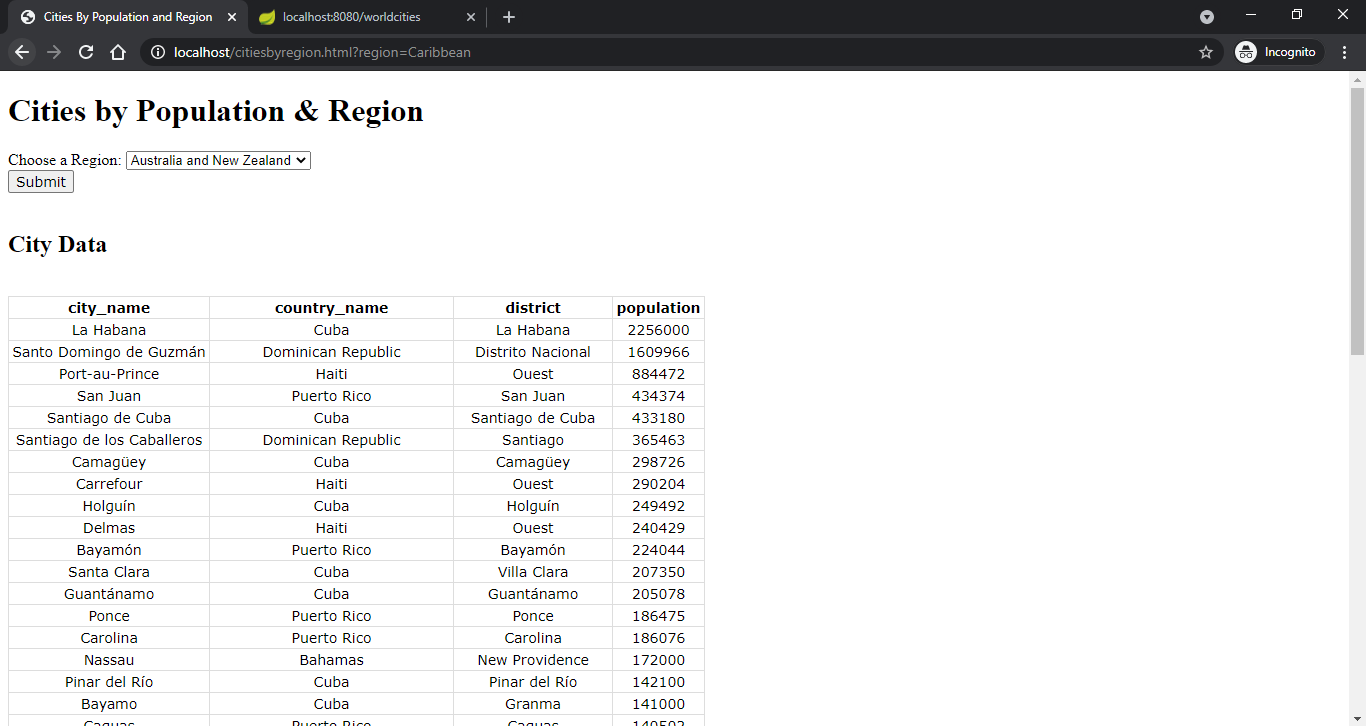
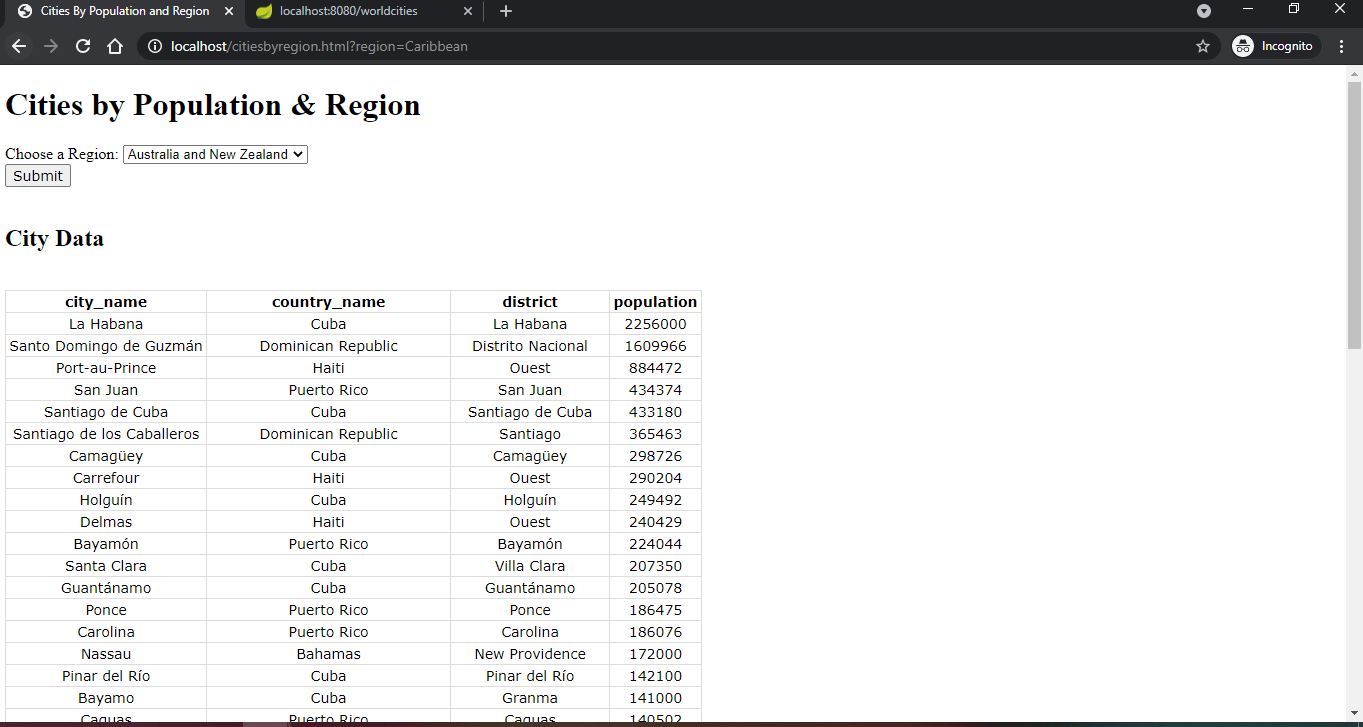
Updated report 9 screenshot

diff --git a/web/content/citiesbycountry.html b/web/content/citiesbycountry.html
@@ -1,0 +1,92 @@
+<!DOCTYPE html>
+<html lang="en">
+<head>
+    <meta charset="UTF-8">
+    <title>Cities By Population and Continent</title>
+
+    <script src="https://code.jquery.com/jquery-3.2.1.min.js"></script>
+
+    <style>
+        th, td, p, input
+        {
+            font:14px Verdana;
+        }
+        table, th, td
+        {
+            border: solid 1px #DDD;
+            border-collapse: collapse;
+            padding: 2px 3px;
+            text-align: center;
+        }
+        th
+        {
+            font-weight: bold;
+        }
+    </style>
+</head>
+<body>
+<h1>Cities by Population & Continent</h1>
+<form action="/citiesbycontinent.html">
+    <label for="continent">Choose a Continent:</label>
+    <select id="continent" name="continent">
+        <option value="Africa">Africa</option>
+        <option value="Antarctica" selected="selected">Antarctica</option>
+        <option value="Asia">Asia</option>
+        <option value="Europe">Europe</option>
+        <option value="North America">North America</option>
+        <option value="Oceania">Oceania</option>
+        <option value="South America">South America</option>
+    </select>
+    </br>
+    <input type="submit" value="Submit">
+</form>
+</br>
+<h2>City Data</h2>
+</br>
+<!--<div class="urldata">Waiting</div>-->
+<div class="showData">...</div>
+</body>
+<script>
+    var urlParams = new URLSearchParams(window.location.search);
+    var continent = urlParams.get('continent');
+
+    var URL = "http://" + window.location.hostname + "/app/continentcities?continent=" + continent;
+
+    //show url
+
+    $.getJSON(URL, function(data) {
+        // EXTRACT VALUE FOR HTML HEADER.
+        var col = [];
+        for (var i = 0; i < data.length; i++) {
+            for (var key in data[i]) {
+                if (col.indexOf(key) === -1) {
+                    col.push(key);
+                }
+            }
+        }
+
+        // CREATE DYNAMIC TABLE.
+        var table = document.createElement("table");
+
+        // CREATE HTML TABLE HEADER ROW USING THE EXTRACTED HEADERS ABOVE.
+        var tr = table.insertRow(-1);                   // TABLE ROW.
+        for (var i = 0; i < col.length; i++) {
+            var th = document.createElement("th");      // TABLE HEADER.
+            th.innerHTML = col[i];
+            tr.appendChild(th);
+        }
+
+        // ADD JSON DATA TO THE TABLE AS ROWS.
+        for (var i = 0; i < data.length; i++) {
+            tr = table.insertRow(-1);
+            for (var j = 0; j < col.length; j++) {
+                var tabCell = tr.insertCell(-1);
+                tabCell.innerHTML = data[i][col[j]];
+            }
+        }
+
+        // FINALLY ADD THE NEWLY CREATED TABLE WITH JSON DATA TO A CONTAINER.
+        $(".showData").html(table);
+    });
+</script>
+</html>

diff --git a/README.md b/README.md
@@ -29,7 +29,7 @@
 | 6     | The top N populated countries in a region where N is provided by the user. | Yes | ![topNCountriesbyRegion](https://user-images.githubusercontent.com/72627750/115648152-fa4bf780-a2f2-11eb-950e-894fd02194f6.PNG) |
 | 7     | All the cities in the world organised by largest population to smallest. | Yes | ![allcities](https://user-images.githubusercontent.com/72627750/115648800-143a0a00-a2f4-11eb-9aff-6c133450678e.PNG)|
 | 8     | All the cities in a continent organised by largest population to smallest. | Yes | ![citiesbycontinent](https://user-images.githubusercontent.com/72627750/115649492-6b8caa00-a2f5-11eb-8344-ca6088b3edb8.PNG) |
-| 9     | All the cities in a region organised by largest population to smallest. | Yes | ![citiesbyregion](https://user-images.githubusercontent.com/72627750/115649981-611ee000-a2f6-11eb-93f2-8c2b691e26e5.PNG)|
+| 9     | All the cities in a region organised by largest population to smallest. | Yes | ![citiesbyregion](https://user-images.githubusercontent.com/72627750/115650302-f4f0ac00-a2f6-11eb-9ac3-a97f5a51ed8e.PNG)|
 | 10    | All the cities in a country organised by largest population to smallest. | Yes | image |
 | 11    | All the cities in a district organised by largest population to smallest. | Yes | image |
 | 12    | The top N populated cities in the world where N is provided by the user. | Yes | image |
